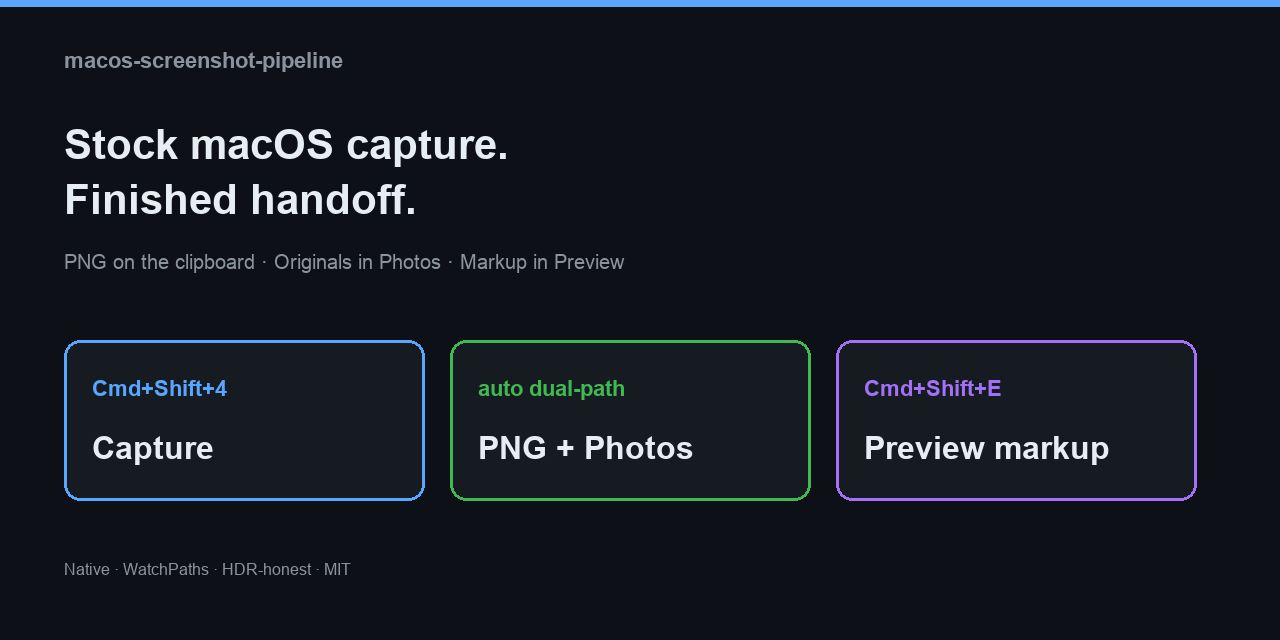
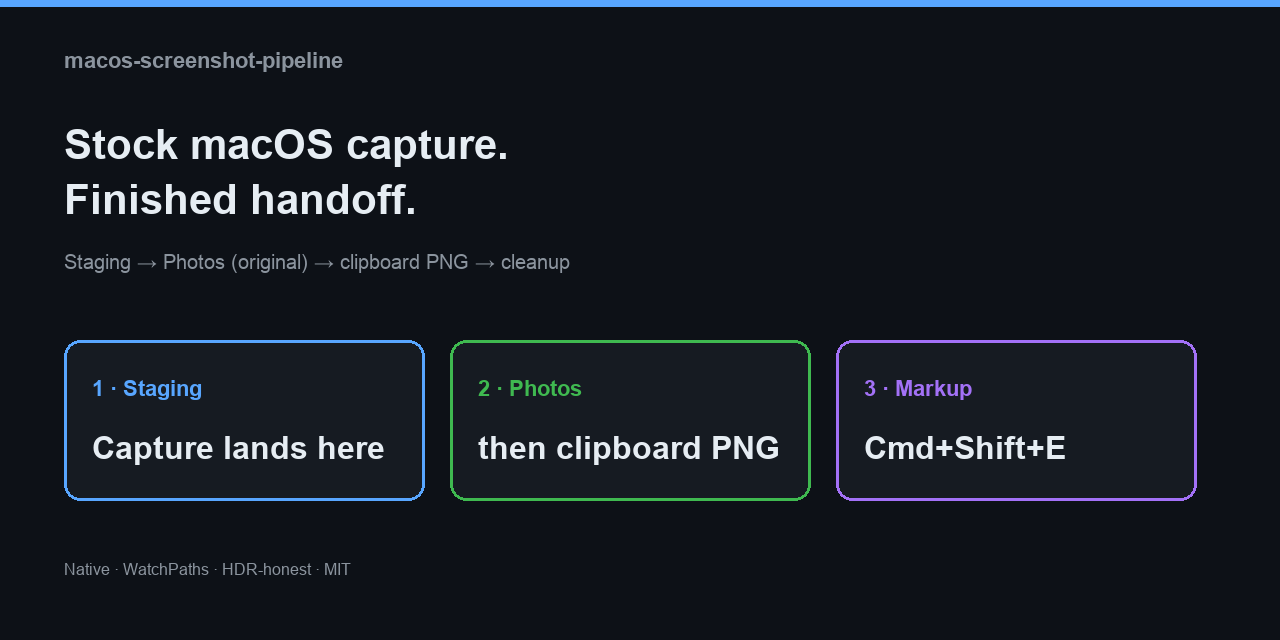
fix: process Photos before clipboard; align docs and demo order
Canonical sequence: screencapture → staging → Photos (original) →
PNG clipboard → delete staging. Update README, architecture, demo
assets, and About copy so messaging matches behavior.

diff --git a/scripts/generate-demo-assets.py b/scripts/generate-demo-assets.py
@@ -157,7 +157,7 @@ def frame_image(i: int) -> Image.Image:
 
     if t < 1.5:
         p = ease(scene_t(i, 0.0, 1.2))
-        title = "Cmd+Shift+4  →  paste + Photos"
+        title = "staging → Photos → clipboard PNG"
         bbox = draw.textbbox((0, 0), title, font=F_TITLE)
         tw = bbox[2] - bbox[0]
         alpha_y = int(lerp(40, 0, p))
@@ -204,50 +204,49 @@ def frame_image(i: int) -> Image.Image:
             draw.text((fx0 + 50, fy0 + 88), "Screenshot 2026-07-19.png", font=F_BODY, fill=TEXT)
             draw.text((fx0 + 50, fy0 + 112), "original bytes (HDR → often HEIF)", font=F_TINY, fill=MUTED)
 
-        # arrows to dual outputs
+        # ordered handoff (not parallel “clipboard first”)
         mid = ease(scene_t(i, 4.2, 5.2))
         if mid > 0:
-            draw_arrow(draw, fx0 + 420, fy0 + 160, 640, 280, ACCENT2)
-            draw_arrow(draw, fx0 + 420, fy0 + 220, 640, 420, ACCENT3)
-            # destination cards
-            a = int(255 * mid)  # not used with RGB; fade via position
             ox = int(lerp(700, 660, mid))
-            rounded_rect(draw, (ox, 230, ox + 480, 330), 12, PANEL, ACCENT2, 2)
-            draw.text((ox + 24, 250), "Share path", font=F_H2, fill=ACCENT2)
-            draw.text((ox + 24, 285), "sips → true PNG → pasteboard", font=F_BODY, fill=TEXT)
+            draw_arrow(draw, fx0 + 420, fy0 + 180, ox - 12, 300, ACCENT3)
+            rounded_rect(draw, (ox, 220, ox + 480, 320), 12, PANEL, ACCENT3, 2)
+            draw.text((ox + 24, 240), "1 · Archive", font=F_H2, fill=ACCENT3)
+            draw.text((ox + 24, 275), "original → Photos / iCloud", font=F_BODY, fill=TEXT)
 
-            rounded_rect(draw, (ox, 370, ox + 480, 470), 12, PANEL, ACCENT3, 2)
-            draw.text((ox + 24, 390), "Archive path", font=F_H2, fill=ACCENT3)
-            draw.text((ox + 24, 425), "original → Photos (+ caption)", font=F_BODY, fill=TEXT)
+            rounded_rect(draw, (ox, 350, ox + 480, 450), 12, PANEL, ACCENT2, 2)
+            draw.text((ox + 24, 370), "2 · Share", font=F_H2, fill=ACCENT2)
+            draw.text((ox + 24, 405), "sips → PNG → clipboard", font=F_BODY, fill=TEXT)
+
+            rounded_rect(draw, (ox, 480, ox + 480, 560), 12, PANEL, ACCENT, 2)
+            draw.text((ox + 24, 505), "3 · Cleanup — delete staging", font=F_H2, fill=ACCENT)
 
     elif t < 7.5:
-        draw.text((80, 120), "3 · Dual-path honesty", font=F_H1, fill=TEXT)
+        draw.text((80, 120), "3 · Photos first, then pasteboard", font=F_H1, fill=TEXT)
         p = ease(scene_t(i, 5.5, 6.2))
-        # two big columns
+        # Photos on the left (first), pasteboard on the right (second)
         left = (80, 200, 600, 580)
         right = (680, 200, 1200, 580)
-        draw_window(draw, left, "Pasteboard")
-        draw_window(draw, right, "Photos")
-        # clipboard preview card
-        rounded_rect(draw, (120, 270, 560, 500), 10, (20, 40, 30), ACCENT, 2)
-        draw.text((150, 300), "PNG ready", font=F_H1, fill=ACCENT)
-        draw.text((150, 350), "Cmd+V in Discord, Notes,", font=F_BODY, fill=TEXT)
-        draw.text((150, 380), "browsers, chat — universal.", font=F_BODY, fill=TEXT)
-        draw.text((150, 430), "Tone-mapped when source is HDR.", font=F_SMALL, fill=MUTED)
+        draw_window(draw, left, "Photos — step 1")
+        draw_window(draw, right, "Pasteboard — step 2")
 
-        # photos grid
         for r in range(2):
             for c in range(3):
-                x = 720 + c * 140
+                x = 120 + c * 140
                 y = 280 + r * 130
                 col = (50 + c * 20, 45 + r * 15, 70 + c * 10)
                 rounded_rect(draw, (x, y, x + 120, y + 110), 8, col, BORDER, 1)
-        if p > 0.5:
-            rounded_rect(draw, (720, 280, 840, 390), 8, (60, 90, 120), ACCENT3, 3)
-            draw.text((735, 320), "NEW", font=F_H2, fill=WHITE)
-            draw.text((735, 350), "Screenshot", font=F_TINY, fill=TEXT)
+        if p > 0.35:
+            rounded_rect(draw, (120, 280, 240, 390), 8, (60, 90, 120), ACCENT3, 3)
+            draw.text((135, 320), "NEW", font=F_H2, fill=WHITE)
+            draw.text((135, 350), "Screenshot", font=F_TINY, fill=TEXT)
 
-        draw.text((80, 600), "One file is not full-HDR archive and universal lossless PNG.", font=F_SMALL, fill=WARN)
+        rounded_rect(draw, (720, 270, 1160, 500), 10, (20, 40, 30), ACCENT, 2)
+        draw.text((750, 300), "PNG ready", font=F_H1, fill=ACCENT)
+        draw.text((750, 350), "After Photos import:", font=F_BODY, fill=TEXT)
+        draw.text((750, 385), "Cmd+V in Discord, Notes, browsers.", font=F_BODY, fill=TEXT)
+        draw.text((750, 430), "Tone-mapped when source is HDR.", font=F_SMALL, fill=MUTED)
+
+        draw.text((80, 600), "Order: staging file → Photos (original) → clipboard PNG → delete staging.", font=F_SMALL, fill=WARN)
 
     elif t < 9.0:
         draw.text((80, 120), "4 · Markup — Cmd+Shift+E", font=F_H1, fill=TEXT)
@@ -291,10 +290,10 @@ def frame_image(i: int) -> Image.Image:
         p = ease(scene_t(i, 9.0, 9.8))
         draw.text((80, 200), "Done.", font=F_TITLE, fill=TEXT)
         lines = [
-            "Desktop stays clean",
-            "Pasteboard has PNG",
-            "Photos keeps the original",
-            "Markup without a paid app",
+            "Staging receives the capture first",
+            "Photos keeps the original (HDR)",
+            "Pasteboard gets a share PNG",
+            "Staging file deleted — desk stays clean",
         ]
         for li, line in enumerate(lines):
             y = 280 + li * 48
@@ -316,13 +315,13 @@ def make_hero() -> Image.Image:
     draw.text((64, 48), "macos-screenshot-pipeline", font=F_H2, fill=MUTED)
     draw.text((64, 120), "Stock macOS capture.", font=F_TITLE, fill=TEXT)
     draw.text((64, 175), "Finished handoff.", font=F_TITLE, fill=TEXT)
-    draw.text((64, 250), "PNG on the clipboard · Originals in Photos · Markup in Preview", font=F_BODY, fill=MUTED)
+    draw.text((64, 250), "Staging → Photos (original) → clipboard PNG → cleanup", font=F_BODY, fill=MUTED)
 
     # three cards
     cards = [
-        (64, 340, "Cmd+Shift+4", "Capture", ACCENT2),
-        (450, 340, "auto dual-path", "PNG + Photos", ACCENT),
-        (836, 340, "Cmd+Shift+E", "Preview markup", ACCENT3),
+        (64, 340, "1 · Staging", "Capture lands here", ACCENT2),
+        (450, 340, "2 · Photos", "then clipboard PNG", ACCENT),
+        (836, 340, "3 · Markup", "Cmd+Shift+E", ACCENT3),
     ]
     for x, y, top, bot, col in cards:
         rounded_rect(draw, (x, y, x + 360, y + 160), 16, PANEL, col, 3)

diff --git a/README.md b/README.md
@@ -17,7 +17,7 @@ No paid app. No Electron. No telemetry. No Desktop landfill.
 ![Hero](docs/assets/hero.png)
 
 ```text
-  Cmd+Shift+4   →   clipboard PNG  +  Photos  +  clean desk
+  Cmd+Shift+4   →   staging  →  Photos (original)  →  clipboard PNG  →  cleanup
   Cmd+Shift+E   →   Preview markup  →  paste anywhere
 ```
 
@@ -31,20 +31,10 @@ No paid app. No Electron. No telemetry. No Desktop landfill.
 
 ```mermaid
 flowchart LR
-  subgraph capture["Capture"]
-    K["Cmd+Shift+3 / 4 / 5"]
-  end
-  subgraph stage["Staging"]
-    S["ephemeral folder"]
-  end
-  subgraph out["Handoff"]
-    P["PNG → pasteboard"]
-    H["original → Photos"]
-    D["staging deleted"]
-  end
-  K --> S --> P
-  S --> H
-  S --> D
+  K["Cmd+Shift+3 / 4 / 5"] --> S["staging file"]
+  S --> H["Photos — original / HDR"]
+  H --> P["clipboard — PNG"]
+  P --> D["delete staging"]
 ```
 
 ```mermaid
@@ -87,11 +77,10 @@ Clipboard PNG is typically an **SDR tone-map** of HDR content. That is the corre
 
 ```mermaid
 flowchart TB
-  SC["screencapture — HDR on"]
-  SC --> ORIG["original bytes<br/>often HEIF when HDR"]
-  SC --> PNG["sips → true PNG<br/>pasteboard PNGf"]
-  ORIG --> PH["Photos — archive"]
-  PNG --> CB["pasteboard — share"]
+  SC["screencapture writes staging<br/>HDR on — original bytes"]
+  SC --> PH["1 · Photos import<br/>original / often HEIF"]
+  PH --> CB["2 · sips → true PNG<br/>clipboard PNGf"]
+  CB --> RM["3 · delete staging file"]
 ```
 
 ---
@@ -152,7 +141,7 @@ Photos library content is **never** deleted.
 |:----:|:----------|
 | 1 | Installer sets capture **location** → staging (default `~/Pictures/Camera Roll`), **HDR on**, **floating thumbnail off** (immediate file write) |
 | 2 | `launchd` **WatchPaths** fires only when staging changes — **no polling daemon** |
-| 3 | `process.sh` waits for stable size → **PNG → clipboard** → **original → Photos** → delete staging on success |
+| 3 | `process.sh` waits for stable size → **original → Photos** → **PNG → clipboard** → delete staging on success |
 | 4 | Tiny **Carbon** accessory app registers **⌘⇧E** → opens clipboard image in **Preview** |
 
 Deep dive: **[docs/ARCHITECTURE.md](docs/ARCHITECTURE.md)**

diff --git a/docs/ARCHITECTURE.md b/docs/ARCHITECTURE.md
@@ -23,6 +23,14 @@ Stock macOS offers save-to-folder **or** clipboard, not folder + clipboard + Pho
 
 Never claim one blob is both max-HDR archive and universal lossless PNG.
 
+**Processing order after the file lands in staging:**
+
+1. Import **original** into Photos (archive / HDR path)  
+2. Convert a **PNG** onto the clipboard (share path)  
+3. **Delete** the staging file on success (when configured)
+
+Staging always comes first — system `screencapture` writes the file; this project only reacts afterward.
+
 ## Data flow
 
 ```text
@@ -37,11 +45,12 @@ Never claim one blob is both max-HDR archive and universal lossless PNG.
            │                              ▼
            │                     process.sh (exit when done)
            │                         │
-           │              ┌──────────┼──────────┐
-           │              ▼                     ▼
-           │        clipboard PNG         Photos import
-           │        (sips+osascript)      (original file)
-           │                                   │
+           │                         ▼
+           │              Photos import (original file)
+           │                         │
+           │                         ▼
+           │              clipboard PNG (sips + osascript)
+           │                         │
            └──── delete staging on success ────┘
 ```
 
@@ -72,9 +81,9 @@ Markup path (independent):
 
 | Step | On failure |
 |------|------------|
-| Clipboard PNG | Log; continue to Photos if enabled |
-| Photos import | **Retain** staging file |
-| Delete staging | Only if success policy allows |
+| Photos import | **Retain** staging; still attempt clipboard PNG |
+| Clipboard PNG | Log; do not undo Photos import |
+| Delete staging | Only if Photos succeeded (when Photos enabled) and policy allows |
 
 ## Security / TCC
 

diff --git a/docs/GITHUB-ABOUT.md b/docs/GITHUB-ABOUT.md
@@ -10,19 +10,19 @@ Keep this file updated if the one-liner evolves.
 **Primary (recommended):**
 
 ```text
-Stock macOS screenshots → PNG on the clipboard + originals in Photos + ⌘⇧E Preview markup. Native launchd pipeline. HDR-honest dual path. MIT.
+Stock macOS screenshots → staging → Photos (original) → clipboard PNG + ⌘⇧E Preview markup. Native launchd pipeline. HDR-honest dual path. MIT.
 ```
 
 **Shorter:**
 
 ```text
-⌘⇧4 → paste-ready PNG + Photos archive. ⌘⇧E → Preview markup. Native, idle-free, HDR-honest. MIT.
+⌘⇧4 → staging → Photos original → paste PNG. ⌘⇧E → Preview markup. Native, idle-free, HDR-honest. MIT.
 ```
 
 **Alternate (benefit-led):**
 
 ```text
-Finish what stock Screenshot starts: clipboard PNG, Photos/iCloud archive, clean staging, Preview markup — no paid app.
+Finish what stock Screenshot starts: staging file, Photos/iCloud archive, then clipboard PNG, Preview markup — no paid app.
 ```
 
 ---
@@ -74,7 +74,7 @@ productivity
 ```text
 Open-sourced the macOS screenshot kit I actually run:
 
-⌘⇧4 → real PNG on the clipboard + original into Photos
+⌘⇧4 → staging → original into Photos → PNG on the clipboard
 ⌘⇧E → Preview markup
 HDR left on — dual-path on purpose (archive ≠ paste format)
 WatchPaths, not a polling daemon
@@ -106,7 +106,7 @@ First public release of a production-proven native screenshot handoff for macOS.
 
 ### Highlights
 - WatchPaths capture processor (idle = not running)
-- Dual path: true PNG on clipboard; original bytes → Photos
+- Ordered dual path: original → Photos, then true PNG → clipboard
 - ⌘⇧E → Preview markup via small Carbon hotkey app
 - Config file + install flags (`--no-photos`, `--no-hotkey`, …)
 - HDR-honest documentation (archive ≠ paste format)

diff --git a/docs/USER-GUIDE.md b/docs/USER-GUIDE.md
@@ -5,8 +5,9 @@
 ### Capture and paste
 
 1. **⌘⇧4** (selection), **⌘⇧3** (full screen), or **⌘⇧5** (toolbar).  
-2. Wait a fraction of a second.  
-3. **⌘V** into Notes, Discord, browser, editor, etc.
+2. macOS writes the file into the **staging** folder first.  
+3. The pipeline imports that **original** into Photos, then puts a **PNG** on the clipboard, then deletes the staging file (default mode).  
+4. **⌘V** into Notes, Discord, browser, editor, etc.
 
 Window capture: **⌘⇧4**, then **Space**, click the window.
 

diff --git a/CHANGELOG.md b/CHANGELOG.md
@@ -7,7 +7,7 @@ All notable changes to this project are documented in this file.
 ### Added
 
 - Event-driven capture pipeline via launchd `WatchPaths` (no polling).
-- Dual-path processing: true PNG on clipboard; original bytes into Photos.
+- Dual-path processing in order: staging file → original into Photos → true PNG on clipboard → delete staging.
 - Configurable staging directory, caption, keyword, Photos on/off, staging retention.
 - Global markup hotkey **⌘⇧E** (Carbon accessory app) → Preview.
 - `install.sh` / `uninstall.sh` with flags for hotkey, Photos, prefs restore, purge.

diff --git a/docs/OPERATIONS.md b/docs/OPERATIONS.md
@@ -24,7 +24,7 @@ tail -30 "${HOME}/Library/Logs/macos-screenshot-pipeline.log" 2>/dev/null || tru
 - Capture job: loaded, **not running**, last exit 0, WatchPaths set.  
 - Hotkey job: **running** with a pid (if installed).  
 - Staging: no leftover screenshot images (default mode).  
-- Log: `clipboard: PNG ready`, `photos: imported`, `cleanup: removed staging`.
+- Log order per shot: `photos: imported`, then `clipboard: PNG ready`, then `cleanup: removed staging`.
 
 ## Manual process run
 